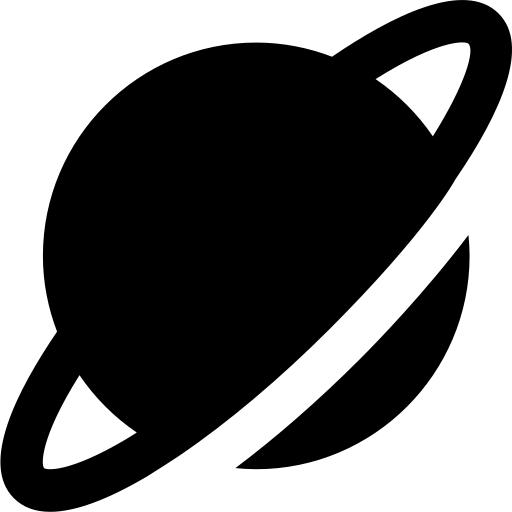
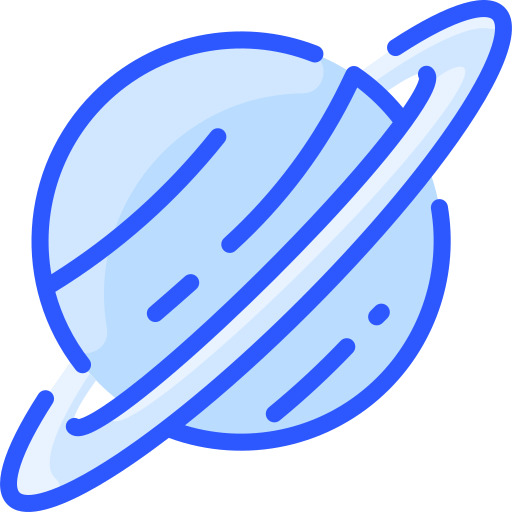
Changing readme

diff --git a/README.md b/README.md
@@ -1,4 +1,4 @@
-<img src="./assets/readme/saturnow.png" width="200px">
+<img src="./assets/readme/saturno.png" width="200px">
 
 # NaN - NotANumber
 
